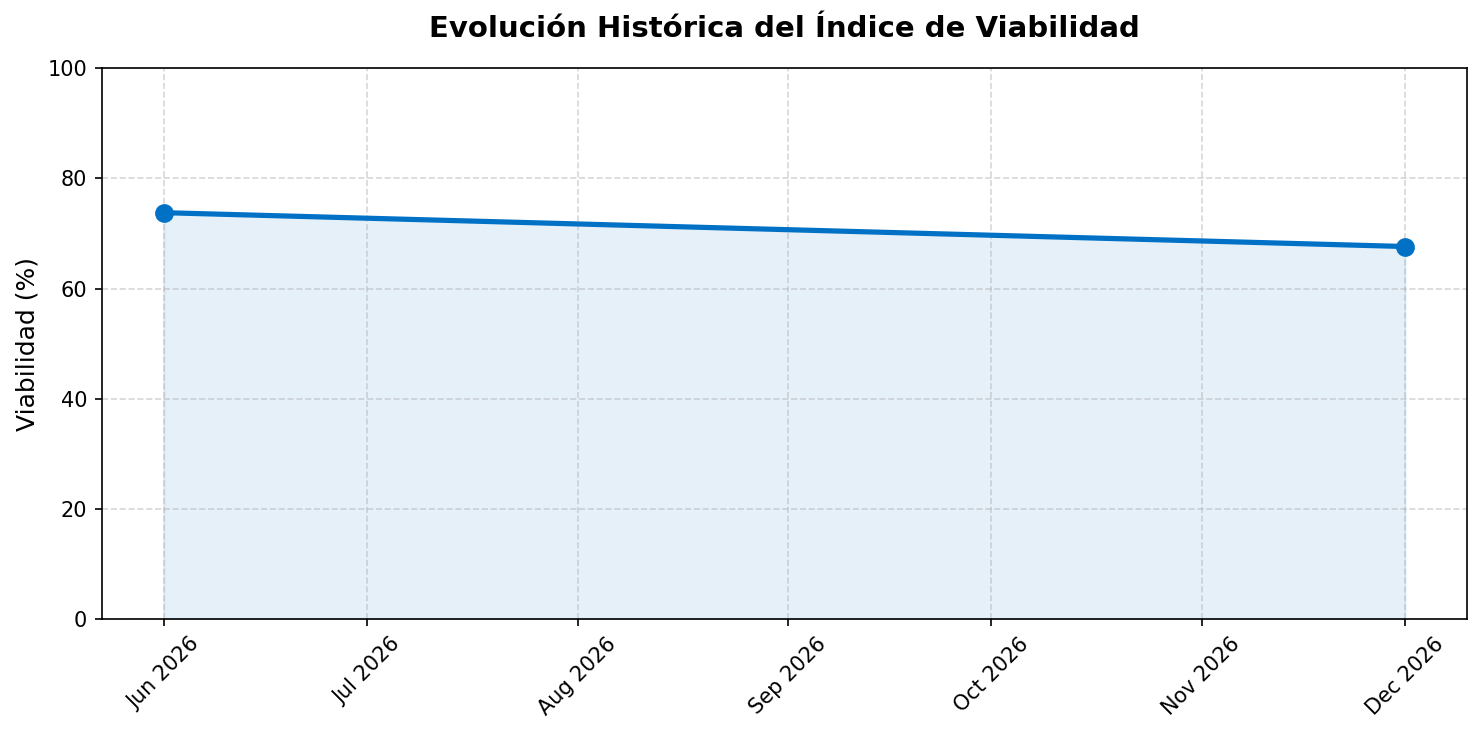
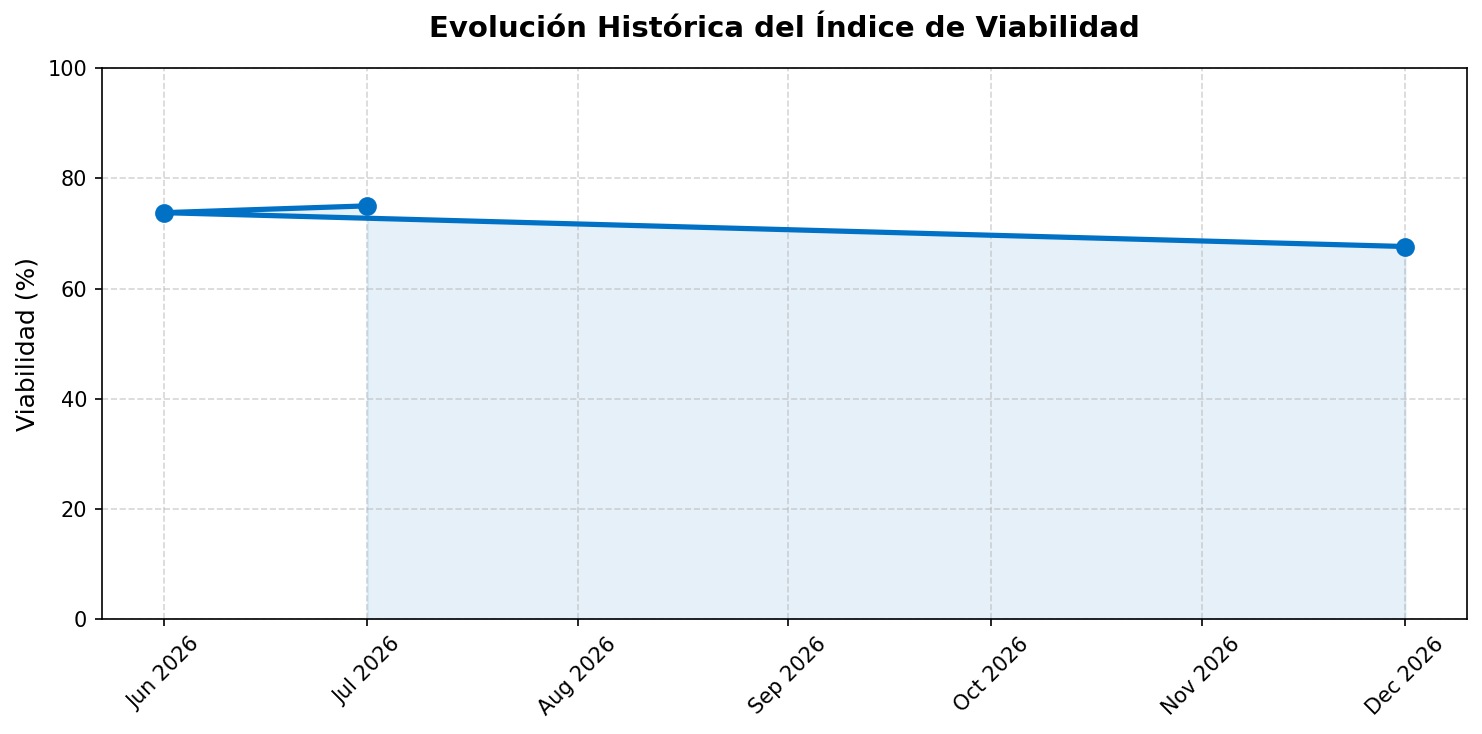
Auto-update: Actualización diaria de predicción y datos macroeconómicos

Changed region(s): [[0.0931, 0.2698, 0.2794, 0.8392]]

diff --git a/README.md b/README.md
@@ -21,11 +21,11 @@ En este proyecto, **Augur** funciona como una analogía moderna: en lugar de obs
 ## Estado Actual del Índice
 
 <!-- PREDICTION_START -->
-**Índice de Viabilidad de Reelección:** 73.8%
+**Índice de Viabilidad de Reelección:** 75.0%
 
 **Análisis:** Viabilidad Alta. El entorno macroeconómico actual es altamente favorable. La combinación de baja inflación y brecha con buena aprobación empujan el índice al alza.
 
-*(Última actualización: 2026-06-30 11:14)*
+*(Última actualización: 2026-07-01 11:28)*
 <!-- PREDICTION_END -->
 
 <p align="center">